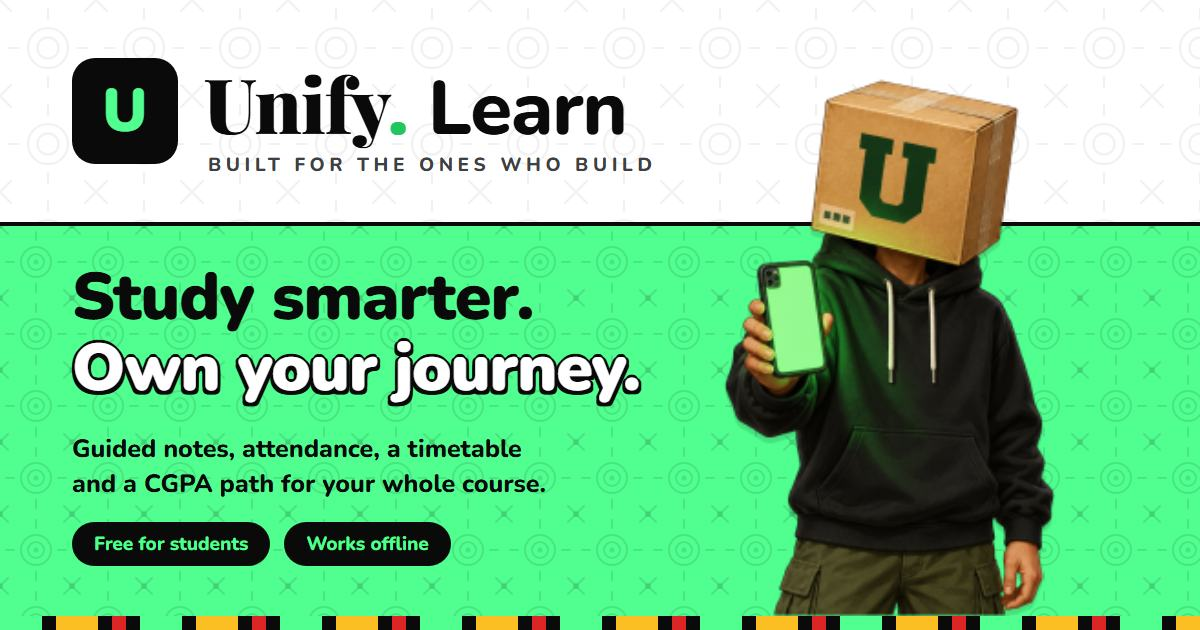
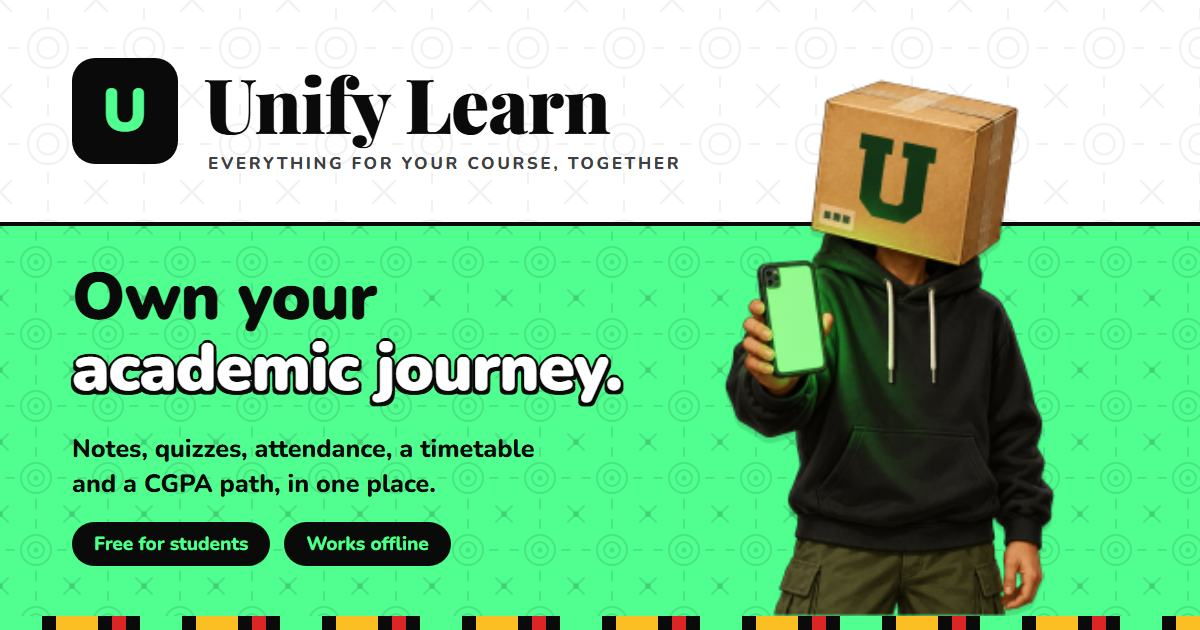
fix: v2.20.1 link preview in the new look: 'Unify Learn' wordmark, 'Own your academic journey' headline, image bumped to v=7; page title and share text match

diff --git a/apps/web/index.html b/apps/web/index.html
@@ -54,7 +54,7 @@
         }, true);
       })();
     </script>
-    <title>Unify Learn — Own your journey</title>
+    <title>Unify Learn — Own your academic journey</title>
     <meta name="description" content="Guided notes, a timetable, QR attendance, a CGPA path and study streaks for your whole course. Free for students, works offline." />
     <meta name="theme-color" content="#50ff90" media="(prefers-color-scheme: light)" />
     <meta name="theme-color" content="#0f0f0f" media="(prefers-color-scheme: dark)" />
@@ -67,20 +67,20 @@
     <meta name="apple-mobile-web-app-status-bar-style" content="default" />
     <meta property="og:type" content="website" />
     <meta property="og:site_name" content="Unify Learn" />
-    <meta property="og:title" content="Unify Learn — Own your journey" />
+    <meta property="og:title" content="Unify Learn — Own your academic journey" />
     <meta property="og:description" content="Guided notes, a timetable, QR attendance, a CGPA path and study streaks for your whole course. Free for students, works offline." />
     <meta property="og:url" content="https://unify-virid.vercel.app/" />
-    <meta property="og:image" content="https://unify-virid.vercel.app/og-image.jpg?v=6" />
+    <meta property="og:image" content="https://unify-virid.vercel.app/og-image.jpg?v=7" />
     <meta property="og:image:width" content="1200" />
     <meta property="og:image:height" content="630" />
     <meta property="og:image:type" content="image/jpeg" />
-    <meta property="og:image:alt" content="Unify Learn: study smarter and own your journey, with Box Boy holding his phone." />
+    <meta property="og:image:alt" content="Unify Learn: own your academic journey, with Box Boy holding his phone." />
     <meta property="og:locale" content="en_NG" />
     <meta name="twitter:card" content="summary_large_image" />
-    <meta name="twitter:title" content="Unify Learn — Own your journey" />
+    <meta name="twitter:title" content="Unify Learn — Own your academic journey" />
     <meta name="twitter:description" content="Guided notes, a timetable, QR attendance, a CGPA path and study streaks for your whole course. Free for students, works offline." />
-    <meta name="twitter:image" content="https://unify-virid.vercel.app/og-image.jpg?v=6" />
-    <meta name="twitter:image:alt" content="Unify Learn: study smarter and own your journey." />
+    <meta name="twitter:image" content="https://unify-virid.vercel.app/og-image.jpg?v=7" />
+    <meta name="twitter:image:alt" content="Unify Learn: own your academic journey." />
     <link rel="icon" type="image/png" sizes="32x32" href="/icons/v4/favicon-32.png" />
     <link rel="icon" type="image/png" sizes="16x16" href="/icons/v4/favicon-16.png" />
     <link rel="preconnect" href="https://fonts.googleapis.com" />

diff --git a/scripts/og/og-phone.html b/scripts/og/og-phone.html
@@ -4,7 +4,7 @@
 <meta charset="UTF-8"/>
 <!-- Link preview (og-image.jpg): 1200x630, horizontal. White top band + brand-green
      bottom band, both with the app's Adire texture, kente edge like the app's green
-     bands. Wordmark and icon match components/redesign/brand.tsx (Wordmark, AppIcon).
+     bands. Wordmark ("Unify Learn", Playfair 900) and icon match components/redesign/brand.tsx (Wordmark, AppIcon).
      Render headless at 1200x630, save as JPEG under ~100 KB (WhatsApp large card). -->
 <link href="https://fonts.googleapis.com/css2?family=Nunito:wght@700;800;900&family=Playfair+Display:wght@900&display=block" rel="stylesheet"/>
 <style>
@@ -18,9 +18,7 @@
   .icon { position: absolute; top: 58px; left: 72px; width: 106px; height: 106px; border-radius: 23px; background: #0a0a0a;
            display: grid; place-items: center; font-weight: 900; font-size: 60px; line-height: 1; color: #50ff90; }
   .wordmark { position: absolute; top: 52px; left: 204px; font-family: 'Playfair Display', Georgia, serif; font-weight: 900; font-size: 76px; letter-spacing: -1px; white-space: nowrap; }
-  .wordmark .dot { color: #22c55e; }
-  .wordmark .learn { font-family: 'Nunito', Arial, sans-serif; font-weight: 800; }
-  .tagline { position: absolute; top: 152px; left: 208px; font-weight: 800; font-size: 19px; letter-spacing: 4.6px; color: #3f3f46; }
+  .tagline { position: absolute; top: 152px; left: 208px; font-weight: 800; font-size: 17px; letter-spacing: 2.6px; color: #3f3f46; }
   h1 { position: absolute; top: 262px; left: 72px; font-weight: 900; font-size: 66px; line-height: 1.08; letter-spacing: -1px; }
   h1 .w { color: #fff; text-shadow: 0 4px 0 #0a0a0a, 3px 0 0 #0a0a0a, -3px 0 0 #0a0a0a, 0 -3px 0 #0a0a0a, 3px 4px 0 #0a0a0a, -3px 4px 0 #0a0a0a; }
   .sub { position: absolute; top: 432px; left: 72px; font-weight: 800; font-size: 25px; line-height: 1.4; }
@@ -35,10 +33,10 @@
   <div class="top"></div>
   <div class="bottom"></div>
   <div class="icon">U</div>
-  <div class="wordmark">Unify<span class="dot">.</span><span class="learn"> Learn</span></div>
-  <div class="tagline">BUILT FOR THE ONES WHO BUILD</div>
-  <h1>Study smarter.<br/><span class="w">Own your journey.</span></h1>
-  <div class="sub">Guided notes, attendance, a timetable<br/>and a CGPA path for your whole course.</div>
+  <div class="wordmark">Unify Learn</div>
+  <div class="tagline">EVERYTHING FOR YOUR COURSE, TOGETHER</div>
+  <h1>Own your<br/><span class="w">academic journey.</span></h1>
+  <div class="sub">Notes, quizzes, attendance, a timetable<br/>and a CGPA path, in one place.</div>
   <div class="chips"><span class="chip">Free for students</span><span class="chip">Works offline</span></div>
   <img class="mascot" src="mascot-phone.png" alt=""/>
   <div class="kente"></div>

diff --git a/apps/web/api/share/[token].js b/apps/web/api/share/[token].js
@@ -51,7 +51,7 @@ module.exports = async (req, res) => {
   // always unfurl fresh.
   res.setHeader('Cache-Control', 'public, s-maxage=300, stale-while-revalidate=3600');
   if (!token) {
-    res.status(400).send(page({ title: 'Unify Learn', desc: 'Shared note', image: APP_URL + '/og-image.jpg?v=6', body: '', appLink: APP_URL + '/auth' }));
+    res.status(400).send(page({ title: 'Unify Learn', desc: 'Shared note', image: APP_URL + '/og-image.jpg?v=7', body: '', appLink: APP_URL + '/auth' }));
     return;
   }
   let data = null;
@@ -68,7 +68,7 @@ module.exports = async (req, res) => {
     res.status(expired ? 410 : 404).send(page({
       title: expired ? 'This Unify link expired — Unify Learn' : 'Link not found — Unify Learn',
       desc: expired ? 'Shared notes live for a while. Join free and the library stays open.' : 'This share link is invalid or was revoked.',
-      image: APP_URL + '/og-image.jpg?v=6',
+      image: APP_URL + '/og-image.jpg?v=7',
       body: '<div class="card"><div class="eyebrow">Unify Learn</div><h1>' + (expired ? 'This link expired' : 'Link not found') + '</h1><div class="sub">Shared notes live for a while — that is what makes them special.</div></div>',
       appLink: APP_URL + '/auth',
     }));
@@ -93,7 +93,7 @@ module.exports = async (req, res) => {
   res.status(200).send(page({
     title,
     desc,
-    image: APP_URL + '/og-image.jpg?v=6',
+    image: APP_URL + '/og-image.jpg?v=7',
     body,
     appLink: APP_URL + '/s/' + encodeURIComponent(token),
   }));

diff --git a/apps/web/src/lib/version.ts b/apps/web/src/lib/version.ts
@@ -3,6 +3,6 @@
 // MINOR — feature batch (new screens, flows, capabilities).
 // PATCH — bugfix/hotfix push (no new surface).
 // Bump PATCH on every fix push, MINOR when a push adds features.
-export const APP_VERSION = '2.20.0';
+export const APP_VERSION = '2.20.1';
 export const APP_NAME = 'Unify Learn';
 

diff --git a/CHANGELOG.md b/CHANGELOG.md
@@ -5,6 +5,11 @@ All notable changes to Unify Learn.
 The format is based on [Keep a Changelog](https://keepachangelog.com/en/1.0.0/),
 and this project adheres to [Semantic Versioning](https://semver.org/spec/v2.0.0.html).
 
+## [2.20.1] - 2026-11-11
+
+### Changed
+- **Link preview matches the new look**: "Unify Learn" wordmark in Playfair, "Own your academic journey" headline, "Everything for your course, together" under the wordmark (was "Unify. Learn" and "Built for the ones who build"). Still a JPEG under 100 KB; image URL bumped to `?v=7` so WhatsApp and others fetch the new picture. Page title and share text updated to match. Source: `scripts/og/og-phone.html`
+
 ## [2.20.0] - 2026-11-11
 
 ### Added
